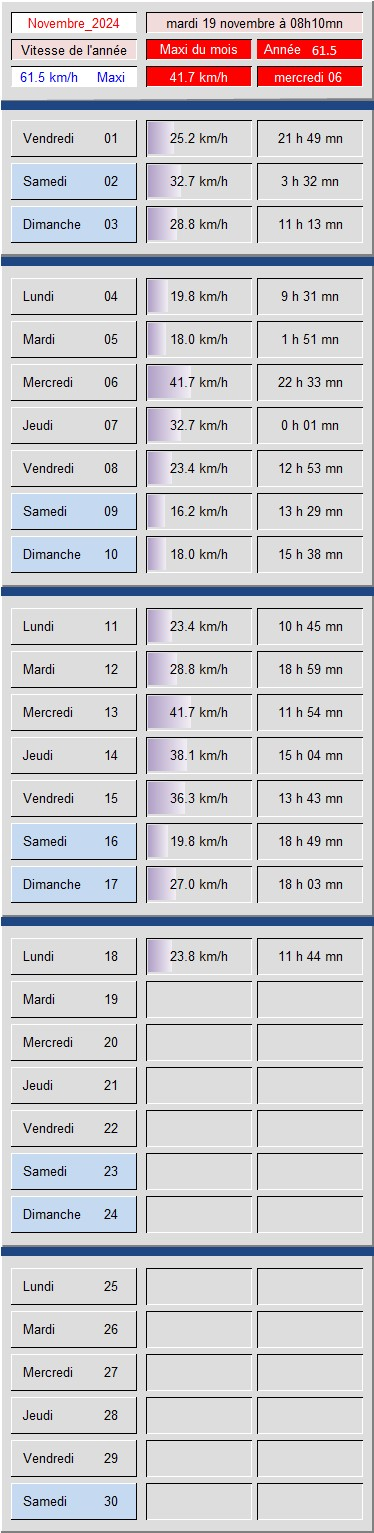
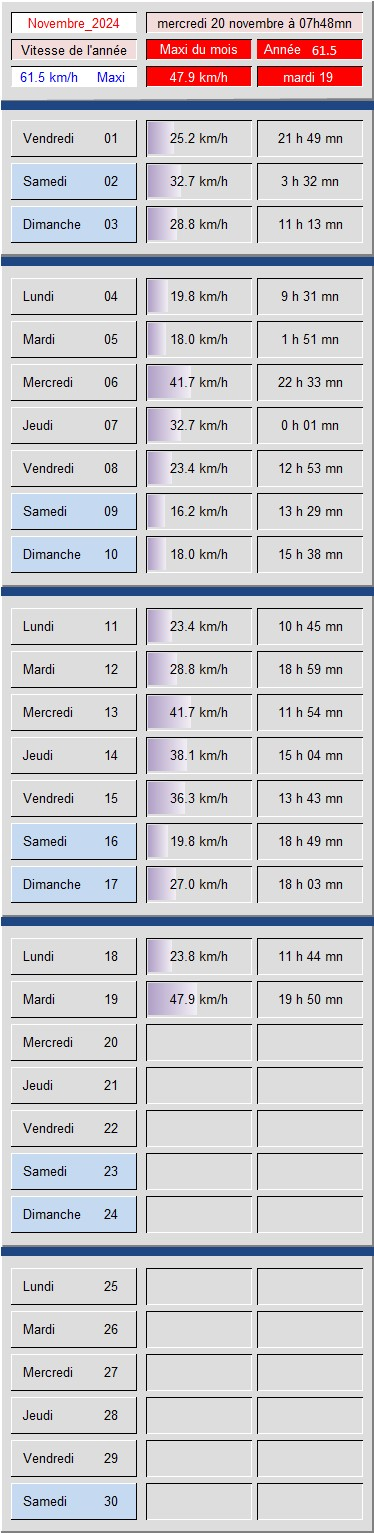
Add files via upload

diff --git a/2024/Novembre/Pluie.html b/2024/Novembre/Pluie.html
@@ -139,12 +139,12 @@ var datas = { //on définit le texte à afficher pour chaque cellule
 'cell_R18C03': '',
 'cell_R18C04': '',
 'cell_R18C05': '',
-'cell_R18C06': '',
+'cell_R18C06': 'il a plu:<br>de 22h10 à 23h11',
 /* ---19ème jour--- */
-'cell_R19C03': '',
-'cell_R19C04': '',
-'cell_R19C05': '',
-'cell_R19C06': '',
+'cell_R19C03': 'il a plu:<br>de 02h02 à 02h53',
+'cell_R19C04': 'il a plu:<br>de 09h47 à 10h46',
+'cell_R19C05': 'il a plu:<br>de 12h51 à 12h57<br>de 12h59 à 13h45<br>de 17h19 à 18h59',
+'cell_R19C06': 'il a plu:<br>de 19h00 à 22h20',
 /* ---20ème jour--- */
 'cell_R20C03': '',
 'cell_R20C04': '',
@@ -206,38 +206,22 @@ var datas = { //on définit le texte à afficher pour chaque cellule
 'cell_R31C05': '',
 'cell_R31C06': ''
 };
-//on récupère toutes les cellules annotées  
-var areas = document.getElementsByTagName('area'); 
-  //largeur d'une cellule  
-var width = 90;
-  //hauteur d'une cellule  
-var height = 36; 
-  //écart horizontal entre deux cellules
-var paddingX = 7; 
-  //écart vertical entre deux cellules
-var paddingY = 7; 
-  //pour chaque cellule
-for (var el of areas) { 
-  //on récupère son id qui contient ses coordonnées sous la forme Ligne puis Colonne
-var elid = el.id; 
-   //on ajoute le texte à afficher en faisant la correspondance entre le tableau de données et l'id de la cellule
-el.setAttribute('data-descr', datas[elid]);
-   //expression régulière pour extraire les nombres contenus dans l'id de notre cellule
-var regex = /\d+/g;
-  //on parse l'id selon notre expression régulière
-var arr = elid.match(regex); 
-  //si deux nombres sont bien trouvés (i.e. les coordonnées) car sait-on jamais peut-être que la personne n'est pas capable d'écrire correctement l'id dans le DOM HTML...
-if (arr.length > 1) {
-  //si deux nombres sont bien trouvés (i.e. les coordonnées) car sait-on jamais peut-être que la personne n'est pas capable d'écrire correctement l'id dans le DOM HTML... 
-var row = parseInt(arr[0], 10); 
-  //on convertit la chaîne de caractères correspondants au numéro de ligne en type entier naturel
-var col = parseInt(arr[1], 10); 
-  //on convertit la chaîne de caractères correspondants au numéro de colonne en type entier naturel
-var offsetX = 146; 
-  //on définit le décélage horizontale de la première cellule par rapport à gauche de l'image
-if (row < (firstWeekLength + 1)) { 
-  //on définit les décalages verticaux entre les semaines par rapport au haut de l'image, ici S1
-var offsetY = 100;
+var areas = document.getElementsByTagName('area'); //on récupère toutes les cellules annotées
+var width = 90; //largeur d'une cellule
+var height = 36; //hauteur d'une cellule
+var paddingX = 7; //écart horizontal entre deux cellules
+var paddingY = 7; //écart vertical entre deux cellules
+for (var el of areas) { //pour chaque cellule
+var elid = el.id; //on récupère son id qui contient ses coordonnées sous la forme Ligne puis Colonne
+el.setAttribute('data-descr', datas[elid]); //on ajoute le texte à afficher en faisant la correspondance entre le tableau de données et l'id de la cellule
+var regex = /\d+/g; //expression régulière pour extraire les nombres contenus dans l'id de notre cellule
+var arr = elid.match(regex); //on parse l'id selon notre expression régulière
+if (arr.length > 1) { //si deux nombres sont bien trouvés (i.e. les coordonnées) car sait-on jamais peut-être que la personne n'est pas capable d'écrire correctement l'id dans le DOM HTML...
+var row = parseInt(arr[0], 10); //on convertit la chaîne de caractères correspondants au numéro de ligne en type entier naturel
+var col = parseInt(arr[1], 10); //on convertit la chaîne de caractères correspondants au numéro de colonne en type entier naturel
+var offsetX = 146; //on définit le décélage horizontale de la première cellule par rapport à gauche de l'image
+if (row < (firstWeekLength + 1)) { //on définit les décalages verticaux entre les semaines par rapport au haut de l'image, ici S1
+var offsetY = 152;
 } else if (row < ( 7 * 1 + firstWeekLength + 1)) { //ici S2
 var offsetY = 152 + 29;
 } else if (row < ( 7 * 2 + firstWeekLength + 1)) { //ici S3
@@ -280,20 +264,12 @@ el.style.top = posY +"px"; //on modifie la position verticale en conséquence
   <link href="../../cligne2.css" rel="stylesheet" type="text/css">
 
 </head><body onload="coords()">
-<p style="text-align: center;"> <small>
-<a href="Temperatures.html"><span style="color: white;">
-    <img style="border: 0px solid ; width: 54px; height: 54px;" alt="Thermometre" src="../../Icones/Thermometre.png"></span></a></small>
-    &nbsp;&nbsp;&nbsp;
-<a href="Vent.html">
-   <img style="border: 0px solid ; width: 70px; height: 42px;" alt="Icone Vent" src="../../Icones/Vent.png"></a>
-   &nbsp;&nbsp; &nbsp; 
-<a href="Soleil.html"><img style="border: 0px solid ; width: 54px; height: 54px;" src="../../Icones/Soleil.png" alt="Icone Soleil"></a>
-   &nbsp;&nbsp;&nbsp; 
-<a href="../../index.html"><span style="text-decoration: underline;">
-   <img style="border: 0px solid ; width: 54px; height: 54px;" alt="Icone accueil" src="../../Icones/Accueil.png"></span></a> </p>
+<p style="text-align: center;"> <small><a href="Temperatures.html"><span style="color: white;"><img style="border: 0px solid ; width: 54px; height: 54px;" alt="Thermometre" src="../../Icones/Thermometre.png"></span></a></small>&nbsp;&nbsp;&nbsp;
+<a href="Vent.html"><img style="border: 0px solid ; width: 70px; height: 42px;" alt="Icone Vent" src="../../Icones/Vent.png"></a>&nbsp;&nbsp; &nbsp; <a href="Soleil.html"><img style="border: 0px solid ; width: 54px; height: 54px;" src="../../Icones/Soleil.png" alt="Icone Soleil"></a>&nbsp;
+&nbsp;&nbsp; <a href="../../index.php"><span style="text-decoration: underline;"><img style="border: 0px solid ; width: 54px; height: 54px;" alt="Icone accueil" src="../../Icones/Accueil.png"></span></a> </p>
 
 <p style="text-align: center;"><span style="color: white;">
-<a href="../../index.html"><span style="text-decoration: underline;"></span></a></span></p>
+<a href="../../index.php"><span style="text-decoration: underline;"></span></a></span></p>
 
 <p style="text-align: center;"><span style="color: white;">
 <marquee>Pour
@@ -304,9 +280,7 @@ les différents tableaux, cliquez sur icôes ci-dessus.</marquee>
 au dessus des cases
 avec un petit triangle rouge.</span>
 </p>
-<div style="text-align: center;"> 
-  <img style="width: 728px; height: 1615px;" src="Tableau_pluie.jpg" alt="Pluviométrie" usemap="#pluviomap"> <map name="pluviomap" onmousemove="bubblepos(event)">
-
+<div style="text-align: center;"> <img style="width: 728px; height: 1615px;" src="Github_Novembre/Tableau_pluie.jpg" alt="Pluviométrie" usemap="#pluviomap"> <map name="pluviomap" onmousemove="bubblepos(event)">
 <!-- 1er jour --><area shape="rect" coords="0,0,0,0" id="cell_R01C03" onmouseover="bubblein(this)" onmousemove="bubblepos(event)" onmouseout="bubbleout(this)">
 <area shape="rect" coords="0,0,0,0" id="cell_R01C04" onmouseover="bubblein(this)" onmousemove="bubblepos(event)" onmouseout="bubbleout(this)">
 <area shape="rect" coords="0,0,0,0" id="cell_R01C05" onmouseover="bubblein(this)" onmousemove="bubblepos(event)" onmouseout="bubbleout(this)">
